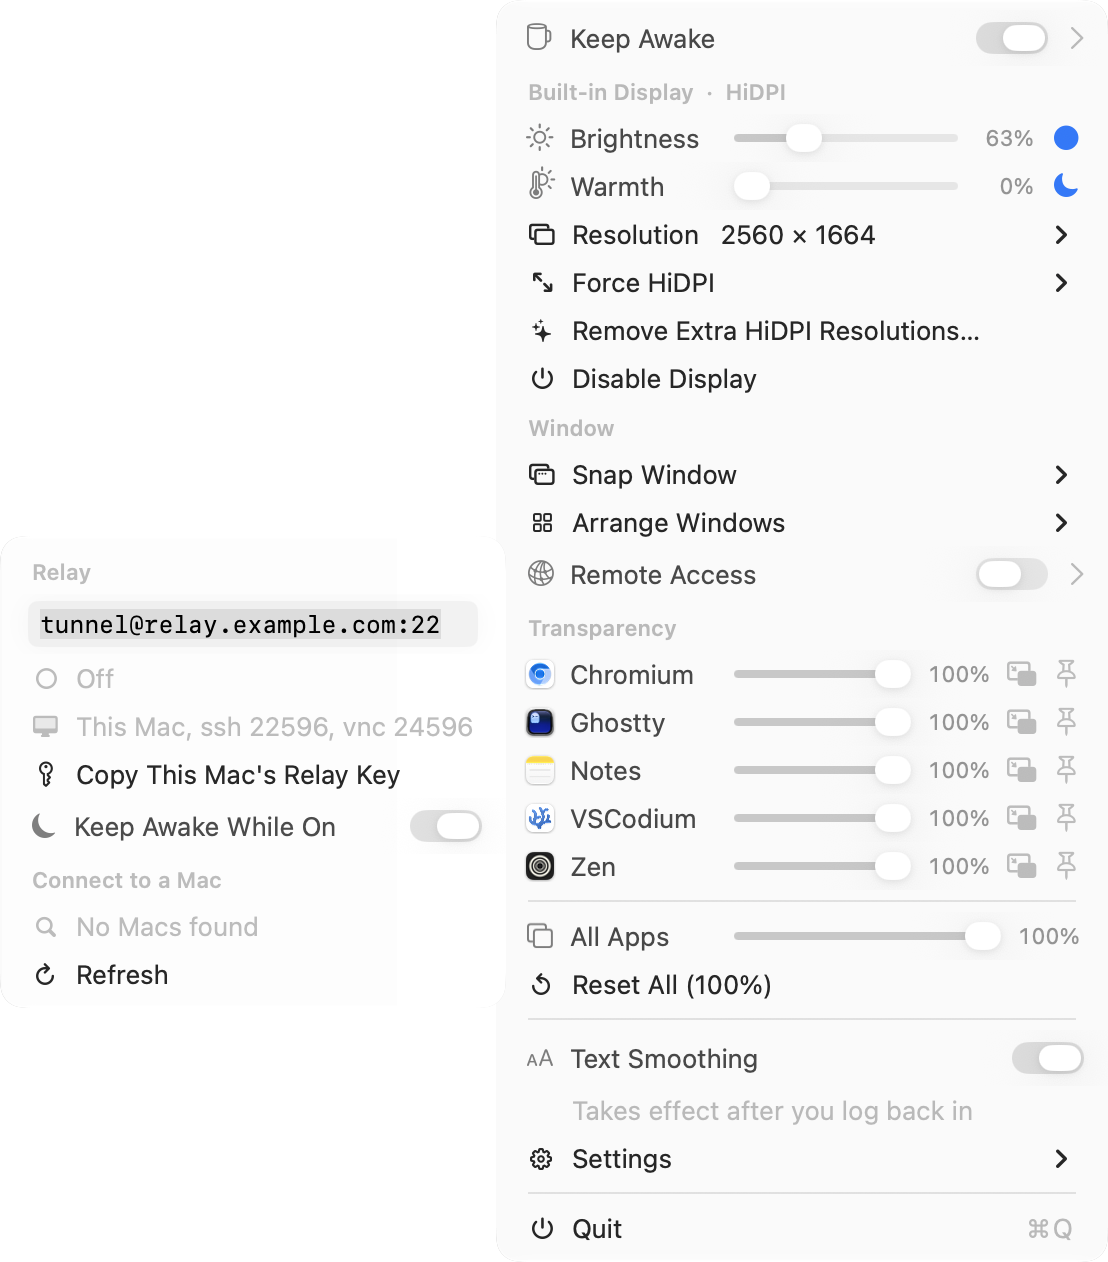
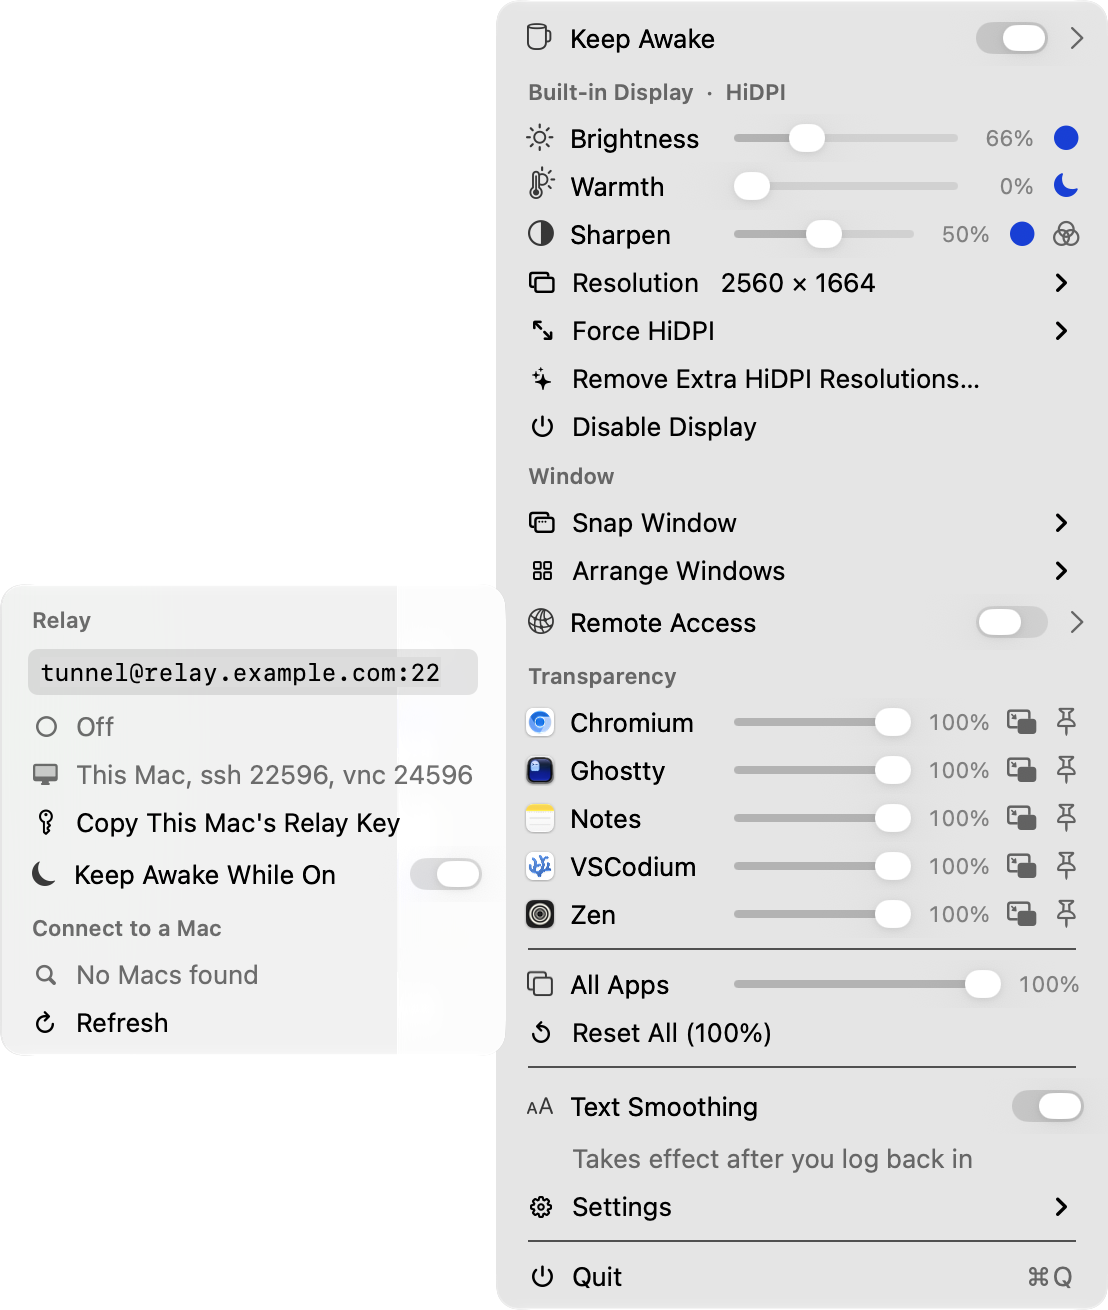
v2.8.9: sharpen radius, transparency master switch, safer screenshot tool
ddshot closed the menu with a synthetic Escape key, which reached the
focused app; close it through Accessibility instead. Refresh the
screenshots.

diff --git a/docs/index.html b/docs/index.html
@@ -35,7 +35,7 @@
         "processorRequirements": "Apple Silicon",
         "url": "https://displaydeck.pyxis3.ai/",
         "downloadUrl": "https://github.com/pyxis3-ai/displaydeck/releases/latest",
-        "softwareVersion": "2.8.8",
+        "softwareVersion": "2.8.9",
         "license": "https://opensource.org/licenses/MIT",
         "author": { "@type": "Organization", "name": "PYXIS3" },
         "description": "A tiny macOS menu-bar app: disable screens, force HiDPI, boost brightness past 100%, warm the colors (auto at night), snap and tile windows, make any window transparent or float, reach your Mac from anywhere, and keep it awake.",

diff --git a/src/transparency/WindowTransparency.m b/src/transparency/WindowTransparency.m
@@ -15,6 +15,7 @@ static const int kMaxBlurRadius = 28;
 
 static NSString *const kStoreKey   = @"TransparencyByApp";
 static NSString *const kAllAppsKey = @"*";
+static NSString *const kEnabledKey = @"TransparencyEnabled";
 static const NSTimeInterval kSyncInterval = 2.0;
 
 @interface WindowTransparency ()
@@ -259,6 +260,15 @@ static NSString *shellQuote(NSString *s) {
     else             [NSUserDefaults.standardUserDefaults removeObjectForKey:kStoreKey];
 }
 
+- (BOOL)enabled {
+    return [NSUserDefaults.standardUserDefaults boolForKey:kEnabledKey];
+}
+
+- (void)setEnabled:(BOOL)enabled {
+    [NSUserDefaults.standardUserDefaults setBool:enabled forKey:kEnabledKey];
+    [self syncWindows:NULL];
+}
+
 - (float)alphaForAllApps {
     return ([self store][kAllAppsKey] ?: @1).floatValue;
 }
@@ -275,21 +285,22 @@ static NSString *shellQuote(NSString *s) {
 // Brings every window in line with its app's stored alpha: windows that
 // appeared since the last pass, and ones the backend did not actually change.
 - (BOOL)syncWindows:(NSError **)error {
-    BOOL all = YES, failing = NO;
+    BOOL all = YES, failing = NO, enabled = self.enabled;
     NSError *first = nil;
     NSMutableDictionary<NSNumber *, NSNumber *> *applied = [NSMutableDictionary dictionary];
     for (DDAppWindows *app in [self appsWithWindows]) {
+        float target = enabled ? app.alpha : 1.0f;
         for (DDWindow *w in app.windows) {
             NSNumber *prev = self.appliedAlpha[@(w.windowID)];
-            if (!prev && app.alpha >= 0.999f) continue;
-            if (prev && fabsf(prev.floatValue - app.alpha) < 0.005f) {
+            if (!prev && target >= 0.999f) continue;
+            if (prev && fabsf(prev.floatValue - target) < 0.005f) {
                 applied[@(w.windowID)] = prev;
-                if (fabsf(w.alpha - app.alpha) <= 0.02f) continue;
+                if (fabsf(w.alpha - target) <= 0.02f) continue;
                 failing = YES;
             }
             NSError *e = nil;
-            if ([self applyAlpha:app.alpha toWindow:w.windowID error:&e]) {
-                applied[@(w.windowID)] = @(app.alpha);
+            if ([self applyAlpha:target toWindow:w.windowID error:&e]) {
+                applied[@(w.windowID)] = @(target);
             } else {
                 all = NO;
                 if (!first) first = e;
@@ -305,7 +316,7 @@ static NSString *shellQuote(NSString *s) {
 
 - (void)updateSyncTimer {
     BOOL needed = NO;
-    for (NSNumber *v in [self store].allValues) if (v.floatValue < 0.999f) needed = YES;
+    for (NSNumber *v in [self store].allValues) if (v.floatValue < 0.999f) needed = self.enabled;
     if (needed == (self.syncTimer != nil)) return;
     [self.syncTimer invalidate];
     self.syncTimer = nil;
@@ -339,6 +350,7 @@ static NSString *shellQuote(NSString *s) {
 }
 
 - (BOOL)setAlpha:(float)alpha forApp:(pid_t)pid error:(NSError **)error {
+    [NSUserDefaults.standardUserDefaults setBool:YES forKey:kEnabledKey];
     [self reloadSilently];
     for (DDAppWindows *app in [self appsWithWindows]) {
         if (app.pid != pid) continue;
@@ -350,6 +362,7 @@ static NSString *shellQuote(NSString *s) {
 }
 
 - (BOOL)setAlphaForAllWindows:(float)alpha error:(NSError **)error {
+    [NSUserDefaults.standardUserDefaults setBool:YES forKey:kEnabledKey];
     [self reloadSilently];
     [self setStore:@{ kAllAppsKey: @(alpha) }];
     return [self syncWindows:error];

diff --git a/src/app/AppDelegate.m b/src/app/AppDelegate.m
@@ -36,6 +36,7 @@ static NSString * const kShowNotifications = @"ShowNotifications";
 static NSString * const kConfirmDisable    = @"ConfirmBeforeDisable";
 static NSString * const kShowResolutions   = @"ShowResolutions";
 static NSString * const kFrostedBlur        = @"FrostedBlur";
+static NSString * const kTransparencyEnabled = @"TransparencyEnabled";
 static NSString * const kSharpenEnabled = @"SharpenEnabled";
 static NSString * const kSharpenAuto    = @"SharpenAuto";
 static NSString * const kSharpenShader  = @"SharpenShader";
@@ -308,6 +309,7 @@ static NSAttributedString *ddColumns(NSArray<NSString *> *cols, NSArray<NSNumber
     [[NSUserDefaults standardUserDefaults] registerDefaults:@{
         kAutoManage:        @NO,
         kSharpenEnabled:    @YES,
+        kTransparencyEnabled: @YES,
         kShowNotifications: @YES,
         kConfirmDisable:    @YES,
         kShowResolutions:   @YES,
@@ -1242,6 +1244,10 @@ static NSAttributedString *ddColumns(NSArray<NSString *> *cols, NSArray<NSNumber
     ddSetToggle(sender, on);
 }
 
+- (void)setSharpenRadius:(NSMenuItem *)sender {
+    [Sharpen shared].radius = sender.tag;
+}
+
 - (void)toggleSharpenAuto:(NSButton *)sender {
     BOOL on = (sender.state == NSControlStateValueOn);
     [Sharpen shared].automatic = on;
@@ -1343,8 +1349,18 @@ static NSAttributedString *ddColumns(NSArray<NSString *> *cols, NSArray<NSNumber
     [menu addItem:[self checkItemWithTitle:@"Auto Strength for the Resolution" key:kSharpenAuto]];
     [menu addItem:[self checkItemWithTitle:@"Shader Mode (Captures the Screen)" key:kSharpenShader]];
     [menu addItem:[self checkItemWithTitle:@"Keep Shader Mode on Battery" key:kSharpenShaderOnBattery]];
+    NSArray<NSString *> *radii = @[@"Radius: Fine", @"Radius: Medium", @"Radius: Wide"];
+    for (NSUInteger i = 0; i < radii.count; i++) {
+        NSMenuItem *item = [[NSMenuItem alloc] initWithTitle:radii[i]
+            action:@selector(setSharpenRadius:) keyEquivalent:@""];
+        item.target = self;
+        item.tag = (NSInteger)i + 1;
+        item.state = ([Sharpen shared].radius == item.tag) ? NSControlStateValueOn : NSControlStateValueOff;
+        [menu addItem:item];
+    }
 
     [menu addItem:[NSMenuItem sectionHeaderWithTitle:@"Transparency"]];
+    [menu addItem:[self checkItemWithTitle:@"Transparency Enabled" key:kTransparencyEnabled]];
     [menu addItem:[self checkItemWithTitle:@"Frosted Glass Blur" key:kFrostedBlur]];
 
     [menu addItem:[NSMenuItem separatorItem]];
@@ -1772,6 +1788,8 @@ static NSAttributedString *ddColumns(NSArray<NSString *> *cols, NSArray<NSNumber
         [self performAutoDisableIfNeeded];
     }
     if ([key hasPrefix:@"Sharpen"]) [[Sharpen shared] reapply];
+    if ([key isEqualToString:kTransparencyEnabled])
+        [WindowTransparency shared].enabled = [self pref:kTransparencyEnabled];
     if ([key isEqualToString:kFrostedBlur]) {
         [WindowTransparency shared].frostedBlur = [self pref:kFrostedBlur];
         [[WindowTransparency shared] reapplyBlurForAllWindows];

diff --git a/src/display/SharpenShader.m b/src/display/SharpenShader.m
@@ -25,14 +25,15 @@ static NSString *const kShaderSource = @
 "    return sum / float(k * k);\n"
 "}\n"
 "fragment float4 fmain(VOut in [[stage_in]], texture2d<float> tex [[texture(0)]],\n"
-"                      constant float &amount [[buffer(0)]], constant int &k [[buffer(1)]]) {\n"
+"                      constant float &amount [[buffer(0)]], constant int &k [[buffer(1)]],\n"
+"                      constant int &r [[buffer(2)]]) {\n"
 "    int2 size = int2(tex.get_width(), tex.get_height());\n"
 "    int2 c = int2(in.position.xy);\n"
 "    float3 e = panelPixel(tex, c, k, size);\n"
-"    float3 b = panelPixel(tex, c + int2( 0, -1), k, size);\n"
-"    float3 d = panelPixel(tex, c + int2(-1,  0), k, size);\n"
-"    float3 f = panelPixel(tex, c + int2( 1,  0), k, size);\n"
-"    float3 h = panelPixel(tex, c + int2( 0,  1), k, size);\n"
+"    float3 b = panelPixel(tex, c + int2( 0, -r), k, size);\n"
+"    float3 d = panelPixel(tex, c + int2(-r,  0), k, size);\n"
+"    float3 f = panelPixel(tex, c + int2( r,  0), k, size);\n"
+"    float3 h = panelPixel(tex, c + int2( 0,  r), k, size);\n"
 "    // Never go past the darkest or lightest neighbour: edges tighten, but\n"
 "    // grey text keeps its tone and nothing grows a halo.\n"
 "    float3 mn = min(min(min(d, e), min(f, b)), h);\n"
@@ -85,6 +86,8 @@ static NSString *const kShaderSource = @
     _metalLayer.pixelFormat = MTLPixelFormatBGRA8Unorm;
     _metalLayer.framebufferOnly = YES;
     _metalLayer.opaque = YES;
+    _metalLayer.displaySyncEnabled = NO;
+    _metalLayer.maximumDrawableCount = 2;
     _metalLayer.drawableSize = pixelSize;
     _metalLayer.magnificationFilter = kCAFilterNearest;
     _metalLayer.minificationFilter = kCAFilterNearest;
@@ -109,7 +112,8 @@ static NSString *const kShaderSource = @
     _window.contentView = view;
     [_window orderFrontRegardless];
 
-    _queue = dispatch_queue_create("com.local.DisplayDeck.sharpen", DISPATCH_QUEUE_SERIAL);
+    _queue = dispatch_queue_create("com.local.DisplayDeck.sharpen",
+        dispatch_queue_attr_make_with_qos_class(DISPATCH_QUEUE_SERIAL, QOS_CLASS_USER_INTERACTIVE, 0));
     CGWindowID overlayID = (CGWindowID)_window.windowNumber;
 
     __weak __typeof(self) weakSelf = self;
@@ -190,7 +194,9 @@ static NSString *const kShaderSource = @
     [encoder setFragmentTexture:texture atIndex:0];
     int block = self.blockSize;
     [encoder setFragmentBytes:&amount length:sizeof amount atIndex:0];
+    int radius = MAX(1, self.radius);
     [encoder setFragmentBytes:&block length:sizeof block atIndex:1];
+    [encoder setFragmentBytes:&radius length:sizeof radius atIndex:2];
     [encoder drawPrimitives:MTLPrimitiveTypeTriangle vertexStart:0 vertexCount:3];
     [encoder endEncoding];
     [buffer presentDrawable:drawable];

diff --git a/src/display/Sharpen.m b/src/display/Sharpen.m
@@ -8,6 +8,7 @@ static NSString *const kStoreKey  = @"SharpenByDisplay";
 static NSString *const kShaderKey = @"SharpenShader";
 static NSString *const kAutoKey   = @"SharpenAuto";
 static NSString *const kEnabledKey = @"SharpenEnabled";
+static NSString *const kRadiusKey  = @"SharpenRadius";
 static NSString *const kShaderOnBatteryKey = @"SharpenShaderOnBattery";
 static const float kAutoMaxAmount = 0.5f;
 
@@ -93,6 +94,18 @@ static BOOL ddOnBattery(void) {
     return self.shaders.count > 0;
 }
 
+- (NSInteger)radius {
+    NSInteger radius = [NSUserDefaults.standardUserDefaults integerForKey:kRadiusKey];
+    return MAX(1, MIN(3, radius));
+}
+
+- (void)setRadius:(NSInteger)radius {
+    [NSUserDefaults.standardUserDefaults setInteger:radius forKey:kRadiusKey];
+    for (NSWindow *window in self.windows.allValues) [window close];
+    [self.windows removeAllObjects];
+    [self reapply];
+}
+
 - (BOOL)automatic {
     return [NSUserDefaults.standardUserDefaults boolForKey:kAutoKey];
 }
@@ -159,7 +172,7 @@ static CALayer *ddBackdrop(CGRect frame, NSArray *filters) {
     // About one physical pixel of blur, whatever the "looks like" size is.
     CGFloat nativeWidth = ddNativePixelWidth(displayID);
     CGFloat radius = nativeWidth > 0 ? screen.frame.size.width / nativeWidth : 1.0;
-    radius = MAX(0.4, MIN(1.5, radius));
+    radius = MAX(0.4, MIN(1.5, radius)) * self.radius;
 
     NSView *view = [[NSView alloc] initWithFrame:(NSRect){ NSZeroPoint, screen.frame.size }];
     CALayer *root = [CALayer layer];
@@ -215,6 +228,7 @@ static CALayer *ddBackdrop(CGRect frame, NSArray *filters) {
             }
             if (session) {
                 session.amount = amount;
+                session.radius = (int)self.radius;
                 keepShaders[did] = session;
                 continue;
             }

diff --git a/tools/ddshot.m b/tools/ddshot.m
@@ -42,12 +42,25 @@ static void moveMouse(CGPoint p) {
     CFRelease(m);
 }
 
+// Closes any open DisplayDeck menu. A synthetic Escape key would go to
+// whichever app has focus (it cancels a terminal session), so cancel the menu
+// through Accessibility and click the status item as a fallback.
 static void dismiss(void) {
-    CGEventRef d = CGEventCreateKeyboardEvent(NULL, 53, true);
-    CGEventRef u = CGEventCreateKeyboardEvent(NULL, 53, false);
-    CGEventPost(kCGHIDEventTap, d); usleep(40000);
-    CGEventPost(kCGHIDEventTap, u);
-    CFRelease(d); CFRelease(u);
+    pid_t pid = ddPID();
+    if (pid < 0 || windowsForPID(pid, 101).count == 0) return;
+    AXUIElementRef app = AXUIElementCreateApplication(pid);
+    NSDictionary *menu = windowsForPID(pid, 101).firstObject;
+    CGRect r = rectOf(menu);
+    AXUIElementRef el = NULL;
+    AXUIElementCopyElementAtPosition(app, CGRectGetMidX(r), r.origin.y + 12, &el);
+    while (el) {
+        if (AXUIElementPerformAction(el, kAXCancelAction) == kAXErrorSuccess) break;
+        AXUIElementRef parent = NULL;
+        AXUIElementCopyAttributeValue(el, kAXParentAttribute, (CFTypeRef *)&parent);
+        CFRelease(el); el = parent;
+    }
+    if (el) CFRelease(el);
+    CFRelease(app);
     usleep(250000);
 }
 

diff --git a/src/display/Sharpen.h b/src/display/Sharpen.h
@@ -11,6 +11,9 @@ NS_ASSUME_NONNULL_BEGIN
 // panel-native one: off at pixel-exact Retina, strongest at "More Space".
 @property (nonatomic) BOOL automatic;
 
+// Width of the sharpening in panel pixels (1-3). Wider gives a bolder edge.
+@property (nonatomic) NSInteger radius;
+
 // Capture the screen and sharpen it in a shader instead of the no-capture
 // compositor path. Falls back to the compositor without Screen Recording access.
 @property (nonatomic) BOOL usesShader;

diff --git a/src/transparency/WindowTransparency.h b/src/transparency/WindowTransparency.h
@@ -22,6 +22,8 @@ NS_ASSUME_NONNULL_BEGIN
 + (instancetype)shared;
 
 @property (nonatomic) BOOL frostedBlur;
+// Off shows every window at 100% while keeping the stored values.
+@property (nonatomic) BOOL enabled;
 @property (nonatomic, readonly) BOOL applyFailing;
 @property (nonatomic, readonly) float alphaForAllApps;
 

diff --git a/src/display/SharpenShader.h b/src/display/SharpenShader.h
@@ -7,6 +7,7 @@ NS_ASSUME_NONNULL_BEGIN
 @interface SharpenShader : NSObject
 
 @property (atomic) float amount;
+@property (atomic) int radius;
 @property (nonatomic, readonly) NSRect screenFrame;
 @property (nonatomic, copy, nullable) void (^onFailure)(void);
 

diff --git a/CHANGELOG.md b/CHANGELOG.md
@@ -2,6 +2,17 @@
 
 All notable changes to DisplayDeck are documented here. Format follows [Keep a Changelog](https://keepachangelog.com); versions follow [SemVer](https://semver.org).
 
+## [2.8.9] - 2026-10-10
+
+### Added
+
+- **Sharpen radius.** Settings → Sharpen now offers Fine, Medium and Wide. Wider gives a bolder edge; it applies to both the default and shader modes.
+- **Transparency Enabled** in Settings - a master switch that shows every window at 100% while keeping each app's stored value. Moving any transparency slider turns it back on.
+
+### Fixed
+
+- **The screenshot tool no longer sends an Escape key.** `tools/ddshot` closed the menu with a synthetic Escape, which went to whichever app had focus and could cancel a terminal session. It now closes the menu through Accessibility.
+
 ## [2.8.8] - 2026-10-10
 
 ### Added

diff --git a/README.md b/README.md
@@ -7,7 +7,7 @@
 
 Disable & enable screens, Force HiDPI, brightness with EDR boost, color warmth (with auto-night), window tiling/snapping, transparency, blur, keep-on-top & picture-in-picture, keep-awake, remote access.
 
-[![Release](https://img.shields.io/badge/release-v2.8.8-2ea44f?style=flat-square)](https://github.com/pyxis3-ai/displaydeck/releases/latest)
+[![Release](https://img.shields.io/badge/release-v2.8.9-2ea44f?style=flat-square)](https://github.com/pyxis3-ai/displaydeck/releases/latest)
 [![License](https://img.shields.io/badge/license-MIT-3da639?style=flat-square)](LICENSE)
 [![Platform](https://img.shields.io/badge/macOS-14%2B-000?style=flat-square&logo=apple&logoColor=white)](#requirements)
 [![Apple Silicon](https://img.shields.io/badge/Apple_Silicon-555?style=flat-square)](#requirements)
